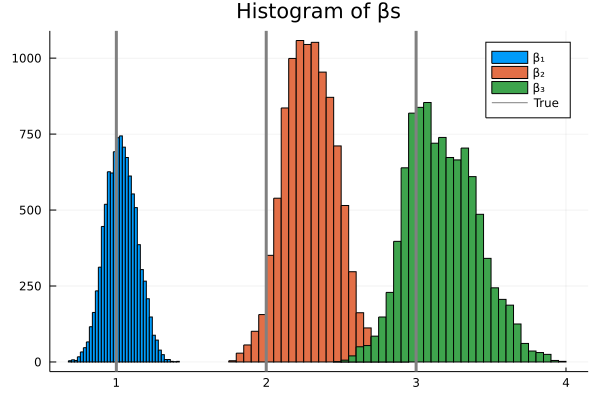
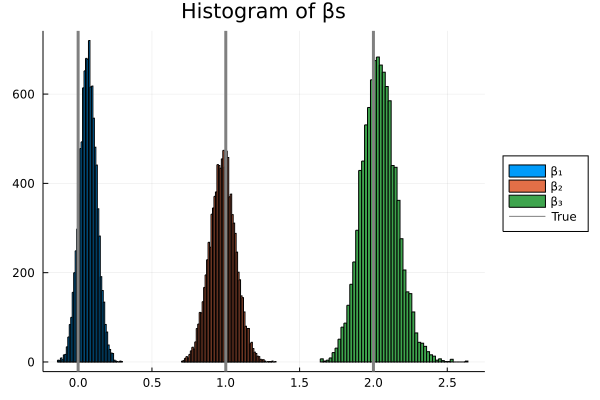
Version 0.2
General improvements

diff --git a/README.md b/README.md
@@ -1,20 +1,20 @@
 # BayesianProbitRegression.jl
 
 # Installation
-A Julia package for Bayesian probit regression in Julia via Gibbs sampling. The package allows for estimation and simulation of a dichotomous variable where it is assumed that the 
+A Julia package for Bayesian probit regression in Julia via Gibbs sampling. The package allows for estimation and simulation of a dichotomous variable. The package is unregistered at the moment, so you need to clone it from the repository:
 
 ```julia
 Pkg.clone("git://github.com/madskoefoed/BayesianProbitRegression.jl)
 ```
 
-The package can then be loaded `using BayesianProbitRegression`.
+The package can then be loaded by typing `using BayesianProbitRegression` in Julia.
 
-Below we provide some examples of how to use the package.ß
+Below I provide some examples of how to use the package.ß
 
 # Introduction
 Probit regression is arguably the second-most common way of estimating a binary variable (after Logistic regression), that is a variable which can take one of only two values. In Probit regression, the cumulative distribution function of the standard normal distribution is assumed: $Pr(y = 1|X) = \Phi(X\beta)$, where $y$ is an N-dimensional vector of dichotomous values, $X$ is an $N \times J$ matrix of independent variables, and $\beta$ is a J-dimensional vector of parameters.
 
-We can assume that $y_{n}$ is a dichotomization of an underlying latent variable, $z_{n}$ for $n = 1,...,N$:
+Assuming that $y_{n}$ is a dichotomization of an underlying latent variable, $z_{n}$ for $n = 1,...,N$, the model can be written as:
 
 $$
 y_{n} = \begin{cases} 1, & \text{if $z_{n} > 0$} \\ 0, & \text{if $z_{n} \leq 0$} \end{cases} \\
@@ -22,7 +22,7 @@ z_{n} = x_{n} \beta + \epsilon_{n} \\
 \epsilon_{n} \sim \mathcal{N}(0, 1)
 $$
 
-By introducing the latent variables $z$, the dependent variable $y$ becomes an indicator of whether $z > 0$ or $z \leq 0$.
+By introducing the vector of latent variables $z$, the vector of dependent variables $y$ becomes an indicator of whether $z > 0$ or $z \leq 0$. Of course, the latent variables $z$ is not actually observed, only the binary outcomes $y$.
 
 ## Bayesian Probit Regression
 Given that we are feeling _Bayesian_ today, we need to define some priors for the parameters: $\beta \sim \pi(\beta)$. To ensure conjugacy, we let the priors be multivariate normally distributed: $\beta \sim \mathcal{MVN}(\beta_{0}, Q_{0})$.
@@ -36,13 +36,13 @@ z_{i}|\beta,y_{i},x_{i} \sim \begin{cases} \mathcal{TN}(x_{i} \beta, 1, 0, \inft
 \Sigma = (Q_{0}^{-1} + X^{'} X)^{-1}
 $$
 
-By repeatedly sampling from the two conditional distributions above we arrive at our target (joint) distribution $p(z,\beta|y,X)$.
+By repeatedly sampling from the two conditional distributions above our target (joint) distribution $p(z,\beta|y,X)$ is obtained.
 
 ## Examples
-We demonstrate the algorithm with two examples, one with a constant and another with two independent variables and no constant (though it will be estimated).
+I demonstrate the algorithm with two examples, one with a constant and another with two independent variables and no constant (though it will be estimated).
 
-### Example With 1 Independent Variable
-For the [first example](/example/example_univariable.jl) we generate $N = 500$ observations of $y_{n}$ using $\beta = -0.5$ and $x_{n} = 1$, which implies that for all 500 observations the probability of $y = 1$ is the same:
+### Example With 1 (Constant) Input
+For the [first example](/example/example_univariable.jl) I generate $N = 500$ observations of $y_{n}$ using $\beta = -0.5$ and $x_{n} = 1$, which implies that for all 500 observations the probability of $y = 1$ is the same:
 
 ```julia
 y, p, z, x, μ = simulate(-0.5, 500, intercept = true);
@@ -51,10 +51,10 @@ y, p, z, x, μ = simulate(-0.5, 500, intercept = true);
 The Maximum Likelihood (MLE) estimate of the probability is simply the sample mean (in this case 0.33) and hence the MLE estimate of $\beta$ is given by the inverse CDF $\Phi^{-1}(\hat{p}) \approx -0.44$; not too far from the true value of -0.5.
 
 ```julia
-quantile(Normal(0, 1), mean(y)) = -0.4399...
+quantile(Normal(0, 1), mean(y))
 ```
 
-Using a non-informative prior $N(0, 10)$, we estimate the coefficient $\beta$ using 11,000 draws (of which 1,000 will be discarded later as _burn in_ samples).
+Using a non-informative prior $N(0, 10)$, the parameter $\beta$ is estimated using 11,000 draws (of which 1,000 will be discarded later as _burn in_ samples).
 
 ```julia
 β₀ = Normal(0, 10)
@@ -65,20 +65,25 @@ The MCMC chain starts at the prior value of 0, but quickly convergences to a sta
 
 ![Chain](/example/univariable_chain.png)
 
-Given our weak prior we expect our posterior distribution's mean to be around the ML estimate of -0.44 - as it indeed is.
+Given our weak prior the posterior distribution's mean is expected to be around the ML estimate of -0.44 - as it indeed is.
 
 ![Histogram](/example/univariable_histogram.png)
 
 By estimating the coefficient using a Bayesian method we get the full posterior distribution of $\beta$, which allows us to calculate credible intervals. The 95% credible interval, for example, is $(-0.555, -0.325)$ which implies that the credible interval for the probability is $(0.289, 0.372)$.
 
-### Example With 3 Variables
-For the [second example](/example/example_multivariable.jl) we generate $n = 1,...,1_000$ observations of $y_{n}$ using the coefficients 1, 2, and 3. The $x$'s are NID(0,1), meaning that we do not include a constant.
+### Example With 3 Inputs
+For the [second example](/example/example_multivariable.jl) I generate $n = 1,...,1_000$ observations of $y_{n}$ using the coefficients 0, 1, and 2. The three inputs are defined as follows:
+* $x_{1}$ is constant
+* $x_{2}$ takes the values -1, 0, and 1
+* $x_{3}$ is NID
+
+Given that 
 
 ```julia
 y, p, z, x, μ = simulate([1, 2, 3], 1_000, intercept = false);
 ```
 
-Similarly to the first example above, we choose normally distributed priors and estimate using 11,000 samples.
+Similarly to the first example above, I choose normally distributed priors and estimate using 11,000 samples.
 
 ```julia
 β₀ = MvNormal(zeros(3), 100I)
@@ -93,4 +98,4 @@ The estimated probabilities (using the posterior means) can be obtained by calli
 
 ![Histogram](/example/multivariable_probabilities.png)
 
-To check convergence we can calculate the diagnostic Effective Sample Size (ESS), which takes the serial correlation of the (Markov) chains into account. The package allows for easy calculation of the ESS by running the command `effective_sample_size(chain[1001:end, :], 10)`, where `10` specifies the number of lags to include in the calculation and we leave out the first 1,000 samples. The resulting vector `[3023, 2789, 3079]` suggests that we would need to roughly triple the number of draws to 30,000 to have an effective sample size of 10,000 due to the serial correlation in the chains.
+To check convergence the Effective Sample Size (ESS) can be calculated, which takes the serial correlation of the (Markov) chains into account. The package allows for easy calculation of the ESS by running the command `effective_sample_size(chain[1001:end, :], 10)`, where `10` specifies the number of lags to include in the calculation and the first 1,000 samples are left out. The resulting vector `[3023, 2789, 3079]` suggests that we would need to roughly triple the number of draws to 30,000 to have an effective sample size of 10,000 due to the serial correlation in the chains.
